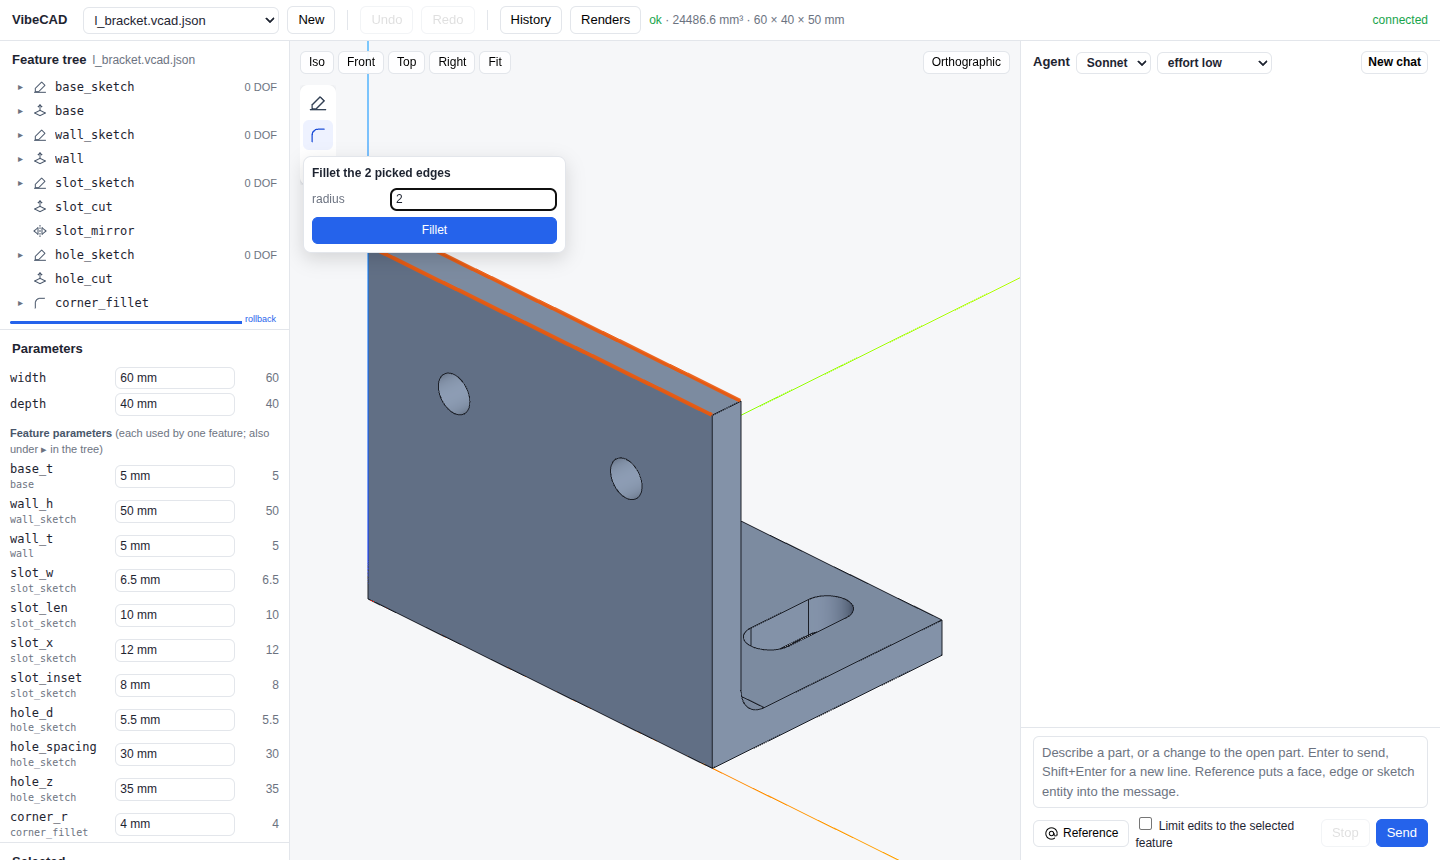
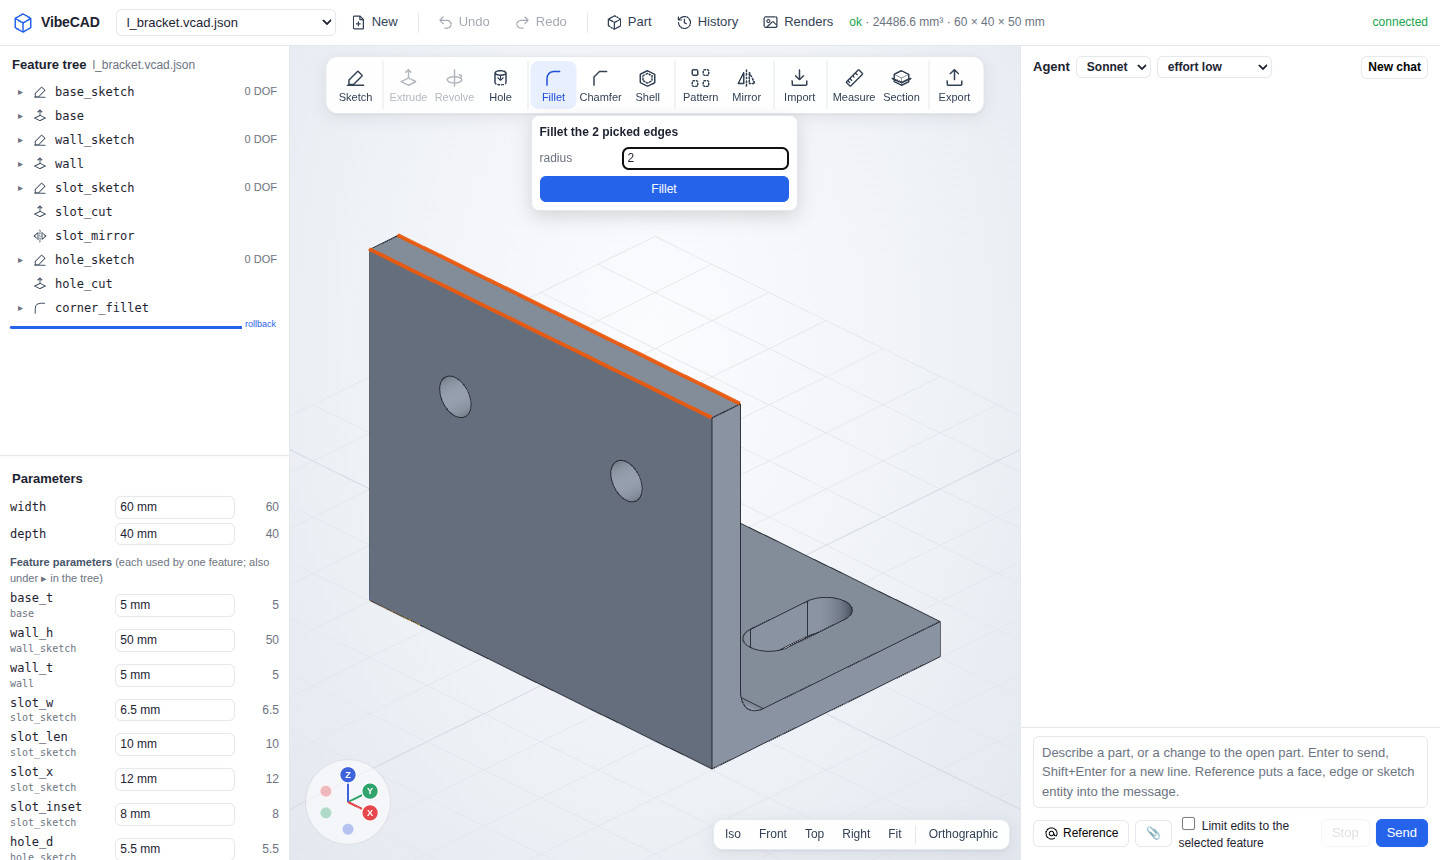
README: working with real parts (import, holes, measure, section, export), new screenshots; section keeps the half away from the camera
Claude-Session: https://claude.ai/code/session_01SRATcLwogJ5xj5GizYYcMd

diff --git a/tests/gui/readme_shots.js b/tests/gui/readme_shots.js
@@ -85,5 +85,63 @@ const sleep = (ms) => new Promise((r) => setTimeout(r, ms));
   await sleep(300);
   await shot("agent");
 
+  // 5. real parts: import a phone as a solid, shell it outward with the screen open (a case), section it
+  let partName = "";
+  page.on("dialog", (d) => d.accept(partName));
+  const FIX = process.env.FIXTURES;
+  const idle = async () => { await page.waitForFunction(() => document.querySelector("#rebuild").hidden, null, { timeout: 60000 }); await sleep(900); };
+  await open(BASE);
+  partName = "case_demo";
+  await page.click("#newBtn");
+  await sleep(1200);
+  await page.setInputFiles("#importFile", path.join(FIX, "phone.step"));
+  await page.waitForSelector("#imGo", { timeout: 30000 });
+  await page.selectOption("#imMode", "new");
+  await page.selectOption("#imPlace", "origin");
+  await sleep(300);
+  await shot("import");
+  await page.click("#imGo");
+  await idle();
+  await page.click(".vtools [data-view=iso]"); await sleep(300);
+  await page.click("#gizmo .ax[data-ax=Z][data-sgn='-1']"); await sleep(400);
+  [x, y] = await world(-20, -40, 0);
+  await page.mouse.click(x, y); await sleep(400);
+  await page.click("#shellBtn");
+  await page.selectOption("#shDir", "out");
+  await page.fill("#shT", "1.6");
+  await page.click("#shGo");
+  await idle();
+
+  // 6. holes: click the plate's top, M5 counterbore
+  await open(BASE, "mounting_plate.vcad.json");
+  await page.click(".vtools [data-view=iso]"); await sleep(400);
+  [x, y] = await world(-20, 15, 8);
+  await page.mouse.click(x, y); await sleep(400);
+  await page.click("#holeBtn");
+  await page.selectOption("#hoKind", "counterbore");
+  await page.selectOption("#hoScrew", "M5");
+  await sleep(300);
+  await shot("holes");
+  await page.keyboard.press("Escape");
+  await page.mouse.click(1000, 850);
+
+  // section through two counterbores and the countersinks' row: their profiles in the cut
+  await page.click("#sectionBtn");
+  await page.evaluate(() => { const r = document.querySelector("#secT"); r.value = 8 / 60; r.dispatchEvent(new Event("input")); });
+  await sleep(700);
+  await page.mouse.move(1000, 850);
+  await shot("section");
+  await page.click("#sectionBtn");
+
+  // 7. measure: two counterbores' axes, and the part's mass
+  await page.click("#measureBtn");
+  for (const [px, py] of [[-32, -22], [32, -22]]) {  // the far inside wall of each counterbore, as seen from the iso view
+    [x, y] = await world(px - 4 * 0.7071, py + 4 * 0.7071, 6);
+    await page.mouse.click(x, y); await sleep(900);
+  }
+  await page.mouse.move(1000, 850);
+  await sleep(600);
+  await shot("measure");
+
   await browser.close();
 })().catch((e) => { console.error("SCRIPT ERROR", e); process.exit(2); });

diff --git a/tests/gui/realparts.js b/tests/gui/realparts.js
@@ -255,11 +255,12 @@ const near = (a, b, tol) => a != null && b != null && Math.abs(a - b) <= tol;
   await page.click("#sectionBtn");
   await page.waitForTimeout(300);
   let clip = await page.evaluate(() => window.vibecadView.clip());
-  check("section on: a Y plane through the middle", clip.length === 1 && clip[0].normal[1] === 1 && near(-clip[0].constant, 19.05, 0.01), JSON.stringify(clip));
+  check("section on: a Y plane through the middle, the far half kept", clip.length === 1 && clip[0].normal[1] === 1 && near(-clip[0].constant, 19.05, 0.01), JSON.stringify(clip));
   await page.click("#sectionPanel [data-ax=X]");
   await page.evaluate(() => { const r = document.querySelector("#secT"); r.value = 0.25; r.dispatchEvent(new Event("input")); });
   clip = await page.evaluate(() => window.vibecadView.clip());
-  check("X plane at a quarter", clip[0].normal[0] === 1 && near(-clip[0].constant, 12.7, 0.01), JSON.stringify(clip));
+  // the iso camera is on the +X side: the kept half is -X, so the cut faces the camera
+  check("X plane at a quarter, cut facing the camera", clip[0].normal[0] === -1 && near(clip[0].constant, 12.7, 0.01), JSON.stringify(clip));
   await shot("4_section");
   await page.click("#sectionBtn");
   check("section off", (await page.evaluate(() => window.vibecadView.clip())).length === 0);

diff --git a/core/vibecad/static/app.js b/core/vibecad/static/app.js
@@ -1463,9 +1463,9 @@ function applySection() {
   if (section) {
     const box = partBox();
     if (!box.isEmpty()) {
-      // three keeps what lies on the plane's positive side: by default the far (+axis) side, which the usual
-      // views (from -Y, -X... iso from the front) look into
-      const i = "XYZ".indexOf(section.axis), sg = section.flip ? -1 : 1, n = new THREE.Vector3().setComponent(i, sg);
+      // keep the half away from the camera, so the cut faces you (flip keeps the other half)
+      const i = "XYZ".indexOf(section.axis), cam = camera.position.getComponent(i) - controls.target.getComponent(i);
+      const sg = (cam > 0 ? -1 : 1) * (section.flip ? -1 : 1), n = new THREE.Vector3().setComponent(i, sg);
       const lo = box.min.getComponent(i), hi = box.max.getComponent(i), at = lo + (hi - lo) * section.t;
       clipPlanes.push(new THREE.Plane(n, -sg * at));
       $("#secAt") && ($("#secAt").textContent = `${section.axis} = ${fmt(at, 2)} mm`);

diff --git a/README.md b/README.md
@@ -2,7 +2,7 @@
 
 AI-assisted parametric CAD. You and the AI edit the same thing: a readable feature tree of named parameters, fully constrained sketches and features (`*.vcad.json`), regenerated into a B-rep solid with OpenCascade. You can talk to the agent, edit by hand, or both in the same session. Either way every change is one undoable step.
 
-![The VibeCAD app: feature tree with per-feature parameters, 3D view, agent panel](docs/img/overview.png)
+![The VibeCAD app: feature tree with per-feature parameters, the modelling toolbar over the 3D view, agent panel](docs/img/overview.png)
 
 Design doc: https://claude.ai/code/artifact/143cbf50-54de-4302-849d-9ac99055b488
 
@@ -28,7 +28,11 @@ Edits on a big part take a few seconds. While one is applied, a status pill in t
 You can also:
 - drag the blue rollback bar to see the part at an earlier step; new features (yours or the agent's) go in at the bar
 - Rename, Suppress, ↑/↓ or Delete the selected feature
-- edit its intent (the one line that says why it exists) or its JSON
+- **Edit…** it (or double-click it in the tree): the form that made it opens again, filled in (extrude distance and direction, hole type and size, pattern count, import placement, ...)
+- edit its intent (the one line that says why it exists) or, under JSON, the raw feature
+- set the part's name, material, process and design notes with **Part** in the header; the material gives Measure its mass
+
+The tree scrolls on its own; drag the bar under it to give it more or less room. `?` lists the keyboard shortcuts.
 
 ### Sketch editor
 
@@ -38,7 +42,7 @@ You can also:
 
 Click a sketch to edit it on its plane, viewed straight on. The solver (PlaneGCS) runs on the server, and the view updates as you drag.
 
-- **Drawing:** the palette on the left has line, rectangle, circle, arc and a freehand mark tool. The keys are `S L R C A M`.
+- **Drawing:** the palette on the left has line, rectangle, circle, arc, slot, polygon, point and a freehand mark tool. The keys are `S L R C A O N P M`. Slots and polygons arrive fully constrained; points mark where holes go.
 - **Constraints:** coincident, horizontal/vertical, parallel, perpendicular, equal, tangent, concentric, midpoint and symmetric. Buttons enable only when the selection fits.
 - **Dimensions:** drawn the way CAD tools draw them, with extension lines, arrows, `⌀` for diameters and `R` for radii. Double-click one to change its value. `ƒ` marks a dimension driven by a parameter; hover it to see which one.
 - **Dragging:** drag free geometry and the solver keeps every constraint. Fully constrained geometry stays put, and the hint tells you which dimension to change instead.
@@ -46,7 +50,43 @@ Click a sketch to edit it on its plane, viewed straight on. The solver (PlaneGCS
 - **Project:** projects the outline of the face under a face sketch as fixed construction geometry that follows the part when upstream sizes change.
 - **Other actions:** rename, → Param (turn a dimension into a named parameter), construction, delete, and Ask agent. Ask agent sends the selected entities and the constraints on them.
 
-**Modelling by hand.** The tool column in the 3D view has **+ Sketch** (on XY, XZ or YZ with an offset, or on the face you last clicked), **Extrude** and **Revolve**. Extrude and Revolve act on the sketch selected in the tree, or else the newest sketch nothing uses yet; they open it with the form (distance or through all, direction, add / cut / new / intersect; revolve axis and angle). Inside a sketch the same two buttons sit in the dark bar at the top.
+**Modelling by hand.** The toolbar across the top of the view has **Sketch** (on XY, XZ or YZ with an offset, or on the face you last clicked), **Extrude**, **Revolve**, **Hole**, **Fillet**, **Chamfer**, **Shell**, **Pattern**, **Mirror**, **Import**, **Measure**, **Section** and **Export**. Extrude and Revolve act on the sketch selected in the tree, or else the newest sketch nothing uses yet; they open it with the form (distance or through all, direction, add / cut / new / intersect; revolve axis and angle). Inside a sketch the same two buttons sit in the dark bar at the top. The gizmo in the corner shows the axes; click one to look along it.
+
+### Working with real parts
+
+![Importing a STEP file: format, size in the part, units, placement](docs/img/import.png)
+
+**Import** (or drop a file on the view) brings in STEP, IGES, BREP or STL. The form shows what is in the file and its size once scaled. The units are guessed from the size, and you can type your own scale. You can keep the file's position or centre it on the origin. Choose how it joins the model:
+- **Reference:** a mating part to design around (a phone, a motor, a board). It is drawn in violet and is not part of the solid, but you can sketch on its faces, **Project** its edges into a sketch, and measure to it.
+- **Base solid, add, cut, intersect:** it becomes part of the model. IGES and STL surfaces are sewn into a solid when they close.
+
+The file is copied next to the part (`imports/`) and re-read when it changes on disk.
+
+For a phone case, import the phone as a solid, click its screen, and **Shell** it outward by the wall thickness: the case skin, open where the screen is.
+
+![Adding a counterbored hole where the face was clicked: ISO screw presets](docs/img/holes.png)
+
+**Hole:** click a flat face where the hole goes, then choose the type and an ISO screw size (M2–M12). The size presets fill in the numbers:
+
+| Type | What the preset fills in |
+|---|---|
+| Simple | the clearance diameter |
+| Counterbore | a counterbore for a socket-head screw |
+| Countersink | a 90° countersink for a flat-head screw |
+| Tapped | a blind hole at the tap drill size, recorded with its thread (`M4x0.7`) |
+
+This adds a small sketch holding the dimensioned position, and the hole. To drill several at once, put points in a sketch (Point tool) and choose "at every point of" that sketch. Holes can be patterned and mirrored like extrudes.
+
+![Measuring between two counterbores: distance, distance between axes, the part's mass](docs/img/measure.png)
+
+**Measure** (`M`): click faces or edges. One pick gives its type and size (diameter, area, length). Two picks give:
+- the distance between them, plus the distance between two planes or two axes
+- the angle between them
+- the part's volume, surface area, mass (from its material), size and centre of mass
+
+![A section through the counterbores and countersinks](docs/img/section.png)
+
+**Section** cuts the view with a plane along X, Y or Z. It keeps the half away from you, so the cut faces you, and the inside shows in orange. **Export** downloads the part as STEP, STL, 3MF, BREP or glTF.
 
 ### Pick edges and faces, then fillet or chamfer
 
@@ -98,7 +138,7 @@ Register the MCP server once: `claude mcp add --scope project vibecad -- uv run 
 
 | Piece | What |
 |---|---|
-| Part format | `*.vcad.json`: params (with units and expressions), sketches, features, each with an `intent`. Reference: [docs/IR.md](docs/IR.md) |
+| Part format | `*.vcad.json`: params (with units and expressions), sketches, and features (extrude, revolve, hole, fillet, chamfer, shell, patterns, mirror, import), each with an `intent`. Reference: [docs/IR.md](docs/IR.md) |
 | Geometry | build123d on OCP (OpenCascade). Faces are labelled by the feature that made them (`wall.side[wall_top]`), and labels are carried through OCCT's own operation history, so references survive regeneration |
 | Sketch solver | PlaneGCS (FreeCAD's solver) via `planegcs`, on the server. The GUI's drag and freedom checks call the same solver |
 | Edits | Ops (`set_param`, `add_feature`, `add_rectangle`, `set_dimension`, `rename_feature`, ...) applied in atomic batches. A batch that fails or doesn't validate changes nothing. Undo and redo are shared by you and the agent, and every batch is logged to `*.history.jsonl` |
@@ -107,9 +147,17 @@ Register the MCP server once: `claude mcp add --scope project vibecad -- uv run 
 
 ## Status
 
-- **Reference parts:** 10 in `examples/`, including a bracket, pillow block, enclosure lid, NEMA 17 mount, battery tray and strap, and hex standoff. They regenerate with every sketch fully constrained, and their volumes match hand calculations. Every parameter is swept ±10% and must still rebuild.
-- **Tests:** `uv run pytest` runs 275 tests.
-- **Browser tests:** `scripts/gui_smoke.sh` runs about 220 Playwright checks, covering the main flows, modelling a part by hand from an empty file, the sketch editor, the agent panel against a scripted agent, and editing a fillet's edges, per-part conversations, attachments and the rebuild indicator.
+- **Reference parts:** 11 in `examples/`, including a bracket, pillow block, enclosure lid, NEMA 17 mount, battery tray and strap, hex standoff, and a mounting plate with counterbored, countersunk and tapped holes. They regenerate with every sketch fully constrained, and their volumes match hand calculations. Every parameter is swept ±10% and must still rebuild.
+- **Tests:** `uv run pytest` runs 332 tests. They include imports of STEP, IGES, BREP and STL (exact round trips, units, placement, sewing surfaces), and every hole type against its volume formula.
+- **Browser tests:** `scripts/gui_smoke.sh` runs about 280 Playwright checks. They cover:
+  - the main flows
+  - modelling a part by hand from an empty file
+  - the sketch editor
+  - the agent panel, against a scripted agent
+  - editing a fillet's edges, per-part conversations, attachments and the rebuild indicator
+  - real-part work: imports, holes, pattern, mirror, shell (including the phone case), measure, section, export and editing features
+
+  With `USERPARTS=folder` it also opens your own parts, changes a parameter of each and undoes it.
 
 ## Measuring the agent
 
@@ -117,7 +165,7 @@ Register the MCP server once: `claude mcp add --scope project vibecad -- uv run 
 
 ## Screenshots and GIFs
 
-The images in `docs/img/` are taken from the running app: `ONLY=readme_shots scripts/gui_smoke.sh docs/img` for the PNGs, `ONLY=readme_gifs scripts/gui_smoke.sh docs/img` for the GIFs (Playwright video, a drawn cursor and captions, converted with ffmpeg; `GIFS=edges` records one).
+The images in `docs/img/` are taken from the running app (the GIFs still show the earlier tool column; re-record them where ffmpeg is installed): `ONLY=readme_shots scripts/gui_smoke.sh docs/img` for the PNGs, `ONLY=readme_gifs scripts/gui_smoke.sh docs/img` for the GIFs (Playwright video, a drawn cursor and captions, converted with ffmpeg; `GIFS=edges` records one).
 
 ## License
 
